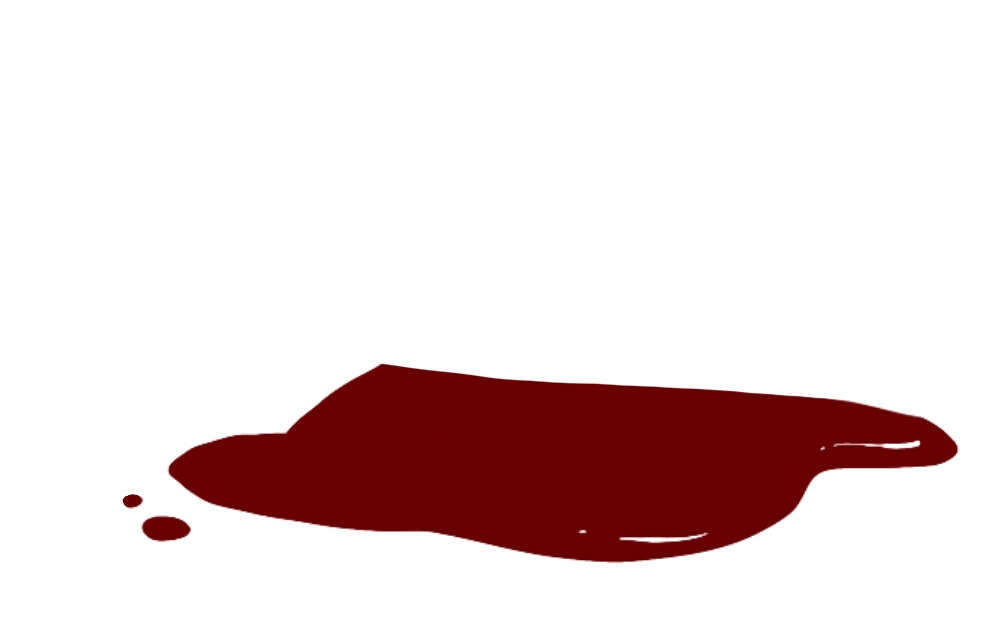
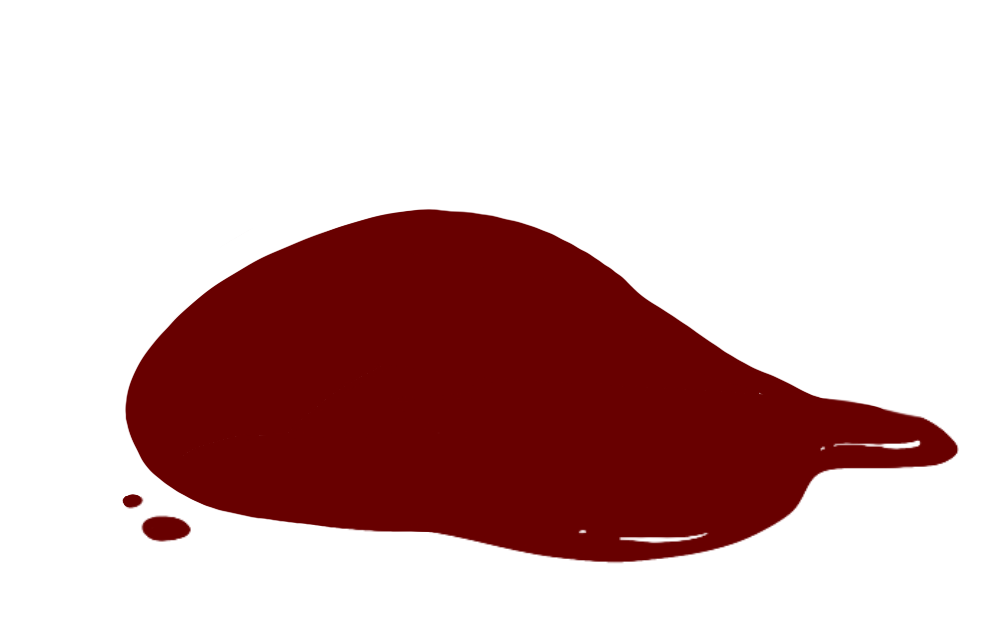
fix aid animation and some stuff

Changed region(s): [[0.1223, 0.3125, 0.8257, 0.8125], [0.3058, 0.8125, 0.3364, 0.8438]]

diff --git a/style.css b/style.css
@@ -61,8 +61,8 @@ body {
 
 .intro-section {
   position: relative;
-  height: 250vh; /* taller parent */
-  margin-bottom: 150px;
+  height: 240vh; /* taller parent */
+  margin-bottom: 120px;
 }
 
 .sticky-graphic {
@@ -182,6 +182,10 @@ body {
 .scroll-paragraph:first-of-type {
   /* margin-top: -20vh;  */
       margin-top: -150%;
+}
+
+.scroll-paragraph:last-of-type {
+  margin-bottom: 0;
 }
 
 /* === Next Section (Static Text) === */
@@ -650,6 +654,7 @@ background: linear-gradient(180deg,rgba(106, 2, 1, 0) 0%, rgba(106, 2, 1, 1) 28%
 .aid-background {
   position: absolute;
   z-index: -1;
+  margin-top: 5px;
 }
 
 .aid-foreground {
@@ -909,7 +914,8 @@ body {
 }
 
   .intro-section {
-  height: 270vh; /* taller parent */
+  height: 230vh; /* taller parent */
+  margin-bottom: 150px;
 }
 
 .image-wrapper {
@@ -1175,6 +1181,7 @@ body {
   margin: 0 auto;
   max-width: 640px;
 }
+
 
 .timeline-block:last-of-type .timeline-header {
   position: relative !important;

diff --git a/effect.js b/effect.js
@@ -246,7 +246,7 @@ window.addEventListener("scroll", () => {
     }
 
      if (background2) {
-      background2.style.top = `${progress * moveY / 6 }px`;
+      background2.style.top = `${progress * moveY / 3 }px`;
     }
   });
 });
